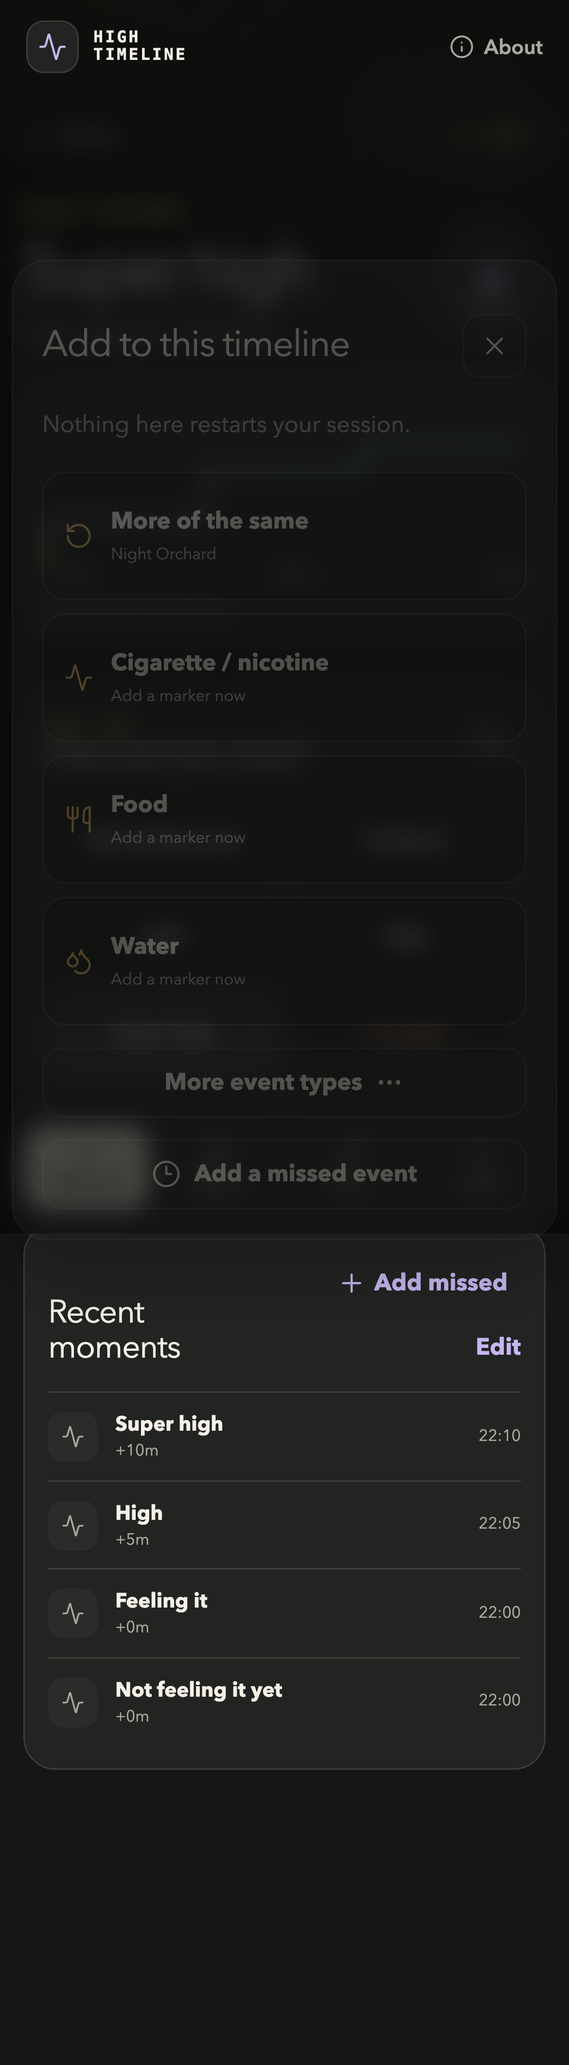
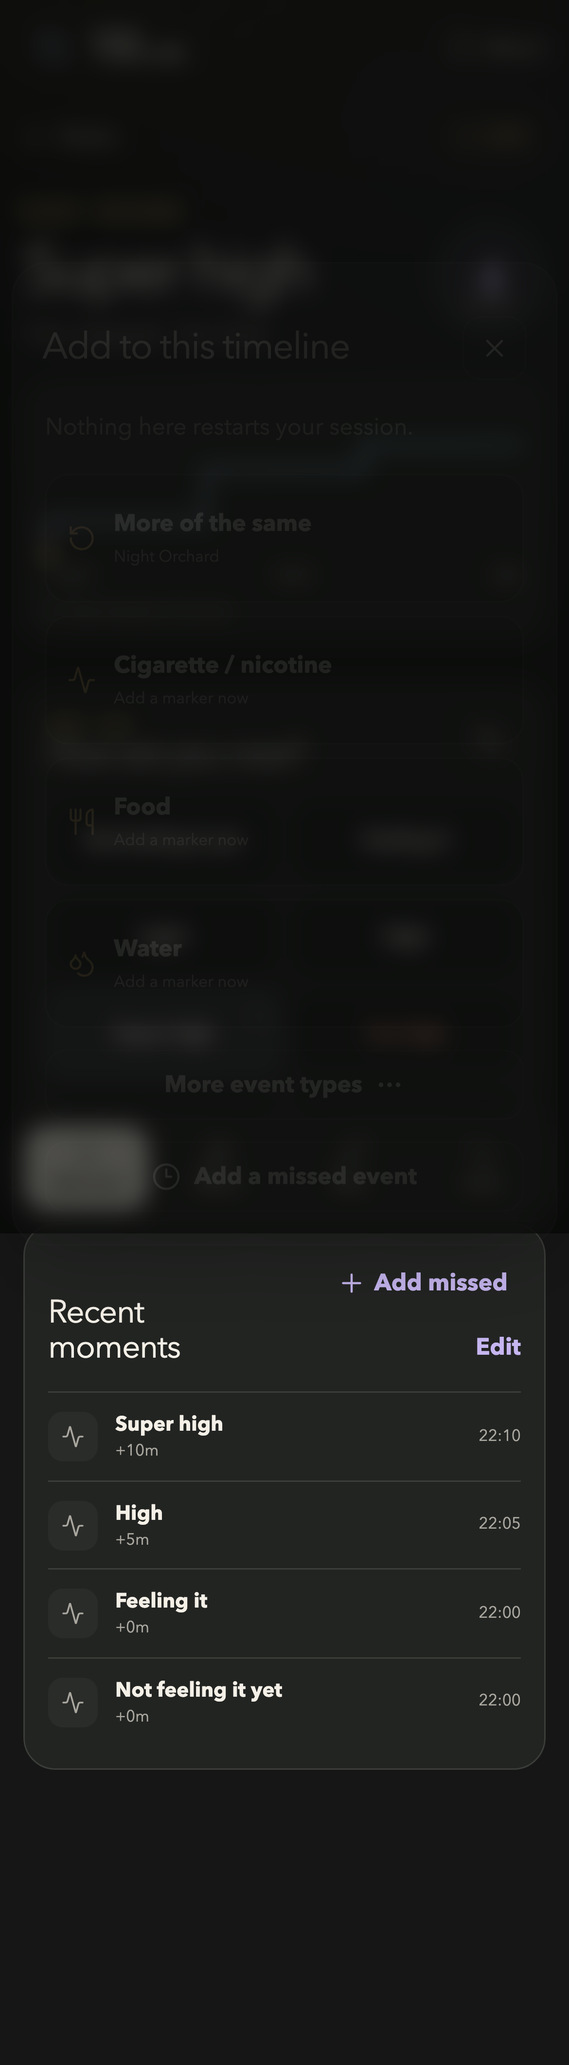
fix: keep missed-event save action tappable

diff --git a/src/index.css b/src/index.css
@@ -6,6 +6,6 @@
 .home-hero{min-height:430px;padding:60px 0 50px;display:flex;flex-direction:column;align-items:flex-start;justify-content:center}.home-hero h1 em{font-family:Georgia,serif;font-weight:400;color:var(--lavender)}.home-hero>p:not(.eyebrow){color:var(--muted);font-size:18px;line-height:1.5;max-width:460px;margin-bottom:28px}.resume-card{display:grid;grid-template-columns:auto 1fr auto;align-items:center;gap:16px;padding:22px;border:1px solid rgba(232,180,106,.35);background:linear-gradient(115deg,rgba(232,180,106,.1),var(--surface));border-radius:var(--radius);box-shadow:var(--shadow);margin-bottom:50px}.resume-card div{display:flex;flex-direction:column;gap:3px}.resume-card small{font:700 10px monospace;color:var(--amber);letter-spacing:.12em}.resume-card strong{font-size:20px}.resume-card span{color:var(--muted);font-size:14px}.live-dot{width:12px;height:12px;border-radius:50%;background:var(--amber);box-shadow:0 0 0 6px rgba(232,180,106,.12)}.section-block{margin:26px 0 50px}.section-head{display:flex;align-items:flex-end;justify-content:space-between;gap:18px;margin-bottom:18px}.section-head h2,.section-head p{margin-bottom:0}.section-head>a,.section-head button:not(.icon-button),.inline-actions>a,.inline-actions>button{color:var(--lavender);font-weight:700;display:flex;align-items:center;gap:6px}.section-head a svg{width:16px}.inline-actions{display:flex;align-items:center;justify-content:flex-end;gap:8px;flex-wrap:wrap}.session-stack{display:flex;flex-direction:column;gap:10px}.session-row{display:flex;align-items:center;gap:16px;padding:17px 18px;border:1px solid var(--line);background:var(--surface);border-radius:18px;transition:border-color .15s,transform .15s}.session-row:hover{border-color:var(--lavender);transform:translateY(-1px)}.date-tile{width:50px;height:54px;border-radius:13px;background:var(--surface-2);display:flex;flex-direction:column;align-items:center;justify-content:center}.date-tile strong{font-size:20px;line-height:1}.date-tile span{font:700 10px monospace;color:var(--muted);text-transform:uppercase}.session-row-main{flex:1;min-width:0;display:flex;flex-direction:column;gap:3px}.session-row-main>strong{font-size:17px}.session-row-main>span{color:var(--muted);font-size:13px}.chips{display:flex;gap:5px;overflow:hidden;margin-top:3px}.chips i{font-style:normal;font-size:10px;padding:3px 7px;border-radius:999px;background:rgba(198,182,240,.1);color:var(--lavender);white-space:nowrap}.rating{font-size:20px;font-weight:700;color:var(--amber)}.rating small{font-size:10px}.privacy-strip{display:flex;align-items:center;gap:15px;border-top:1px solid var(--line);padding:28px 0;color:var(--muted)}.privacy-strip div{display:flex;flex-direction:column}.privacy-strip strong{color:var(--text)}.empty{min-height:240px;border:1px dashed var(--line);border-radius:var(--radius);display:flex;flex-direction:column;align-items:center;justify-content:center;text-align:center;padding:35px;color:var(--muted)}.empty>svg{width:38px;height:38px;color:var(--lavender);margin-bottom:16px}.empty h3{color:var(--text);margin-bottom:8px}.empty .primary{margin-top:15px}
 .form-card{background:var(--surface);border:1px solid var(--line);border-radius:var(--radius);padding:28px;display:flex;flex-direction:column;gap:24px;margin-top:32px}fieldset{border:0;padding:0;margin:0}legend,label{font-weight:700;font-size:14px;display:flex;flex-direction:column;gap:8px;width:100%}legend{margin-bottom:11px}label span,legend span{font-weight:500;color:var(--muted);font-size:12px;margin-left:5px}input,textarea,select{width:100%;border:1px solid var(--line);background:var(--bg-soft);color:var(--text);border-radius:13px;padding:13px 14px;min-height:48px}textarea{resize:vertical;line-height:1.5}.method-grid{display:grid;grid-template-columns:repeat(3,1fr);gap:8px}.method-grid button,.state-grid button,.effect-grid button,.rating-grid button,.segmented button,.view-toggle button{border:1px solid var(--line);background:var(--bg-soft);border-radius:13px;min-height:50px;padding:10px;color:var(--muted);cursor:pointer;font-weight:700}.method-grid button.selected,.method-grid button[aria-pressed="true"],.segmented button.selected,.rating-grid button.selected,.view-toggle button[aria-pressed="true"]{background:rgba(198,182,240,.15);border-color:var(--lavender);color:var(--text)}
 .live-page{max-width:840px;margin:auto;padding-bottom:90px}.live-top{display:flex;justify-content:space-between;align-items:center}.live-pill{font:700 11px monospace;text-transform:uppercase;letter-spacing:.12em;border:1px solid rgba(232,180,106,.35);border-radius:999px;padding:8px 12px;color:var(--amber);display:flex;align-items:center;gap:7px}.live-pill i{width:7px;height:7px;border-radius:50%;background:var(--amber);animation:pulse 2s infinite}.live-status{display:flex;align-items:center;justify-content:space-between;padding:38px 0 18px}.live-status h1{font-size:clamp(42px,8vw,70px);margin-bottom:10px}.live-status>div>p:last-child{color:var(--muted)}.state-orb{width:94px;height:94px;border-radius:50%;display:flex;flex-direction:column;align-items:center;justify-content:center;border:1px solid var(--line);box-shadow:inset 0 0 35px rgba(255,255,255,.04)}.state-orb span{font:700 32px Georgia,serif}.state-orb small{font:700 9px monospace;text-transform:uppercase;letter-spacing:.15em}.tone-lavender{color:var(--lavender);background:rgba(198,182,240,.08)}.tone-cyan{color:var(--cyan);background:rgba(128,209,223,.08)}.tone-coral{color:var(--coral);background:rgba(239,137,123,.08)}.timeline-chart{margin:0 0 28px;background:var(--surface);border:1px solid var(--line);border-radius:var(--radius);padding:14px 16px 11px}.timeline-chart svg{width:100%;height:170px;overflow:visible}.timeline-chart .gridline{stroke:var(--line);stroke-width:.3;stroke-dasharray:2 3}.consume-marker{fill:var(--amber)}.context-marker{fill:var(--cyan)}.timeline-chart figcaption{display:flex;justify-content:space-between;font:700 9px monospace;color:var(--muted);letter-spacing:.1em;text-transform:uppercase}.timeline-chart details{margin-top:10px;color:var(--muted);font-size:12px}.timeline-chart details ol{padding-left:20px}.timeline-chart.compact svg{height:90px}.quick-state{padding:24px;background:var(--surface);border:1px solid var(--line);border-radius:var(--radius)}.state-grid{display:grid;grid-template-columns:repeat(4,1fr);gap:8px}.state-grid button{min-height:66px;position:relative;font-size:13px;color:var(--text)}.state-grid button[aria-pressed="true"]{border-color:var(--cyan);background:rgba(128,209,223,.1)}.state-grid button.super-high{border-color:rgba(198,182,240,.5);background:rgba(198,182,240,.08)}.state-grid button.too-high{color:var(--coral)}.state-grid button svg{position:absolute;right:7px;top:7px;width:14px}.recent-card{margin-top:18px;padding:22px;background:var(--surface);border:1px solid var(--line);border-radius:var(--radius)}.event-line{display:flex;align-items:center;gap:12px;padding:11px 0;border-top:1px solid var(--line)}.event-line:first-child{border-top:0}.event-icon{width:34px;height:34px;display:grid;place-items:center;border-radius:10px;background:var(--surface-2);color:var(--muted);flex:0 0 auto}.event-icon svg{width:16px}.kind-consume{color:var(--amber)}.kind-state_change,.kind-effects_update{color:var(--lavender)}.event-line>div:not(.event-icon){display:flex;flex-direction:column;min-width:0;flex:1}.event-line strong{font-size:14px;white-space:nowrap;overflow:hidden;text-overflow:ellipsis}.event-line span,.event-line time{font-size:11px;color:var(--muted)}.live-dock{position:fixed;z-index:22;bottom:14px;left:50%;transform:translateX(-50%);display:flex;gap:5px;padding:7px;background:color-mix(in srgb,var(--surface) 92%,transparent);border:1px solid var(--line);border-radius:22px;box-shadow:var(--shadow);backdrop-filter:blur(18px)}.live-dock button{border:0;background:transparent;border-radius:15px;min-width:82px;height:58px;display:flex;flex-direction:column;align-items:center;justify-content:center;gap:3px;color:var(--muted);cursor:pointer}.live-dock button:first-child{background:var(--text);color:var(--bg)}.live-dock button svg{width:19px}.live-dock button span{font-size:10px;font-weight:700}
-.modal-backdrop{position:fixed;z-index:50;inset:0;background:rgba(5,6,5,.68);display:flex;align-items:flex-end;justify-content:center;padding:20px;backdrop-filter:blur(8px)}.modal{width:min(560px,100%);max-height:min(760px,calc(100vh - 32px));overflow:auto;background:var(--surface);border:1px solid var(--line);border-radius:28px;padding:24px;box-shadow:var(--shadow);animation:slideUp .2s ease}.modal-wide{width:min(720px,100%)}.modal-head{display:flex;justify-content:space-between;align-items:center;margin-bottom:8px;position:sticky;top:-24px;padding:16px 0 12px;background:var(--surface);z-index:2}.modal-head h2{margin:0}.modal-intro{color:var(--muted);margin-bottom:20px}.quick-events{display:grid;grid-template-columns:1fr 1fr;gap:9px;margin:15px 0}.quick-events button{min-height:88px;border:1px solid var(--line);background:var(--bg-soft);border-radius:16px;padding:14px;display:flex;align-items:center;gap:12px;text-align:left;cursor:pointer}.quick-events button>svg{color:var(--amber)}.quick-events button span{display:flex;flex-direction:column;gap:3px}.quick-events small{font-size:11px}.sheet-form,.button-stack{display:flex;flex-direction:column;gap:15px}.search-field{height:48px;border:1px solid var(--line);border-radius:13px;background:var(--bg-soft);display:flex;align-items:center;padding:0 13px;gap:9px}.search-field svg{color:var(--muted)}.search-field input{border:0;background:transparent;padding:0;min-height:auto}.search-field input:focus{outline:0}.effect-grid{display:grid;grid-template-columns:repeat(3,1fr);gap:7px;margin:14px 0;max-height:360px;overflow:auto}.effect-grid button{min-height:64px;position:relative;display:flex;flex-direction:column;text-align:left;align-items:flex-start;color:var(--text)}.effect-grid button small{font-size:9px;text-transform:capitalize}.effect-grid button[aria-pressed="true"]{border-color:var(--lavender);background:rgba(198,182,240,.12)}.effect-grid button svg{position:absolute;right:8px;top:8px;width:14px}.custom-effect{display:grid;grid-template-columns:1fr 140px auto;gap:8px;margin:16px 0}.safety-note{display:flex;align-items:flex-start;gap:12px;padding:16px;border-radius:15px;background:rgba(128,209,223,.08);border:1px solid rgba(128,209,223,.2);color:var(--muted);margin:18px 0}.safety-note svg{color:var(--cyan);flex:0 0 auto}.safety-note p{margin:0;font-size:13px;line-height:1.5}.rating-grid{display:grid;grid-template-columns:repeat(10,1fr);gap:5px}.rating-grid button{padding:0;min-height:43px}.segmented{display:flex;gap:7px}.segmented button{flex:1}.toggle-row{margin:16px 0!important}.toast{position:fixed;z-index:70;left:50%;bottom:95px;transform:translateX(-50%);padding:13px 16px;border:1px solid var(--line);background:var(--text);color:var(--bg);border-radius:13px;box-shadow:var(--shadow);font-size:13px;font-weight:700;display:flex;gap:14px;align-items:center}.toast button{border:0;background:transparent;color:inherit;text-decoration:underline;font-weight:800}.sr-only{position:absolute;width:1px;height:1px;padding:0;margin:-1px;overflow:hidden;clip:rect(0,0,0,0);white-space:nowrap;border:0}
+.modal-backdrop{position:fixed;z-index:50;inset:0;background:rgba(5,6,5,.68);display:flex;align-items:flex-end;justify-content:center;padding:20px max(20px,env(safe-area-inset-right)) max(20px,env(safe-area-inset-bottom)) max(20px,env(safe-area-inset-left));backdrop-filter:blur(8px)}.modal{width:min(560px,100%);max-height:min(760px,calc(100vh - 32px));max-height:min(760px,calc(100dvh - 32px));overflow:hidden;display:flex;flex-direction:column;background:var(--surface);border:1px solid var(--line);border-radius:28px;padding:24px;box-shadow:var(--shadow);animation:slideUp .2s ease}.modal-wide{width:min(720px,100%)}.modal-head{display:flex;justify-content:space-between;align-items:center;flex:0 0 auto;margin-bottom:8px;padding:16px 0 12px;background:var(--surface);z-index:2}.modal-head h2{margin:0}.modal-body{min-height:0;overflow-y:auto;overscroll-behavior:contain;padding:0 2px 2px;scrollbar-gutter:stable}.modal-footer{flex:0 0 auto;margin-top:14px;padding:14px 0 max(2px,env(safe-area-inset-bottom));border-top:1px solid var(--line);background:var(--surface);z-index:3}.modal-intro{color:var(--muted);margin-bottom:20px}.quick-events{display:grid;grid-template-columns:1fr 1fr;gap:9px;margin:15px 0}.quick-events button{min-height:88px;border:1px solid var(--line);background:var(--bg-soft);border-radius:16px;padding:14px;display:flex;align-items:center;gap:12px;text-align:left;cursor:pointer}.quick-events button>svg{color:var(--amber)}.quick-events button span{display:flex;flex-direction:column;gap:3px}.quick-events small{font-size:11px}.sheet-form,.button-stack{display:flex;flex-direction:column;gap:15px}.search-field{height:48px;border:1px solid var(--line);border-radius:13px;background:var(--bg-soft);display:flex;align-items:center;padding:0 13px;gap:9px}.search-field svg{color:var(--muted)}.search-field input{border:0;background:transparent;padding:0;min-height:auto}.search-field input:focus{outline:0}.effect-grid{display:grid;grid-template-columns:repeat(3,1fr);gap:7px;margin:14px 0;max-height:360px;overflow:auto}.effect-grid button{min-height:64px;position:relative;display:flex;flex-direction:column;text-align:left;align-items:flex-start;color:var(--text)}.effect-grid button small{font-size:9px;text-transform:capitalize}.effect-grid button[aria-pressed="true"]{border-color:var(--lavender);background:rgba(198,182,240,.12)}.effect-grid button svg{position:absolute;right:8px;top:8px;width:14px}.custom-effect{display:grid;grid-template-columns:1fr 140px auto;gap:8px;margin:16px 0}.safety-note{display:flex;align-items:flex-start;gap:12px;padding:16px;border-radius:15px;background:rgba(128,209,223,.08);border:1px solid rgba(128,209,223,.2);color:var(--muted);margin:18px 0}.safety-note svg{color:var(--cyan);flex:0 0 auto}.safety-note p{margin:0;font-size:13px;line-height:1.5}.rating-grid{display:grid;grid-template-columns:repeat(10,1fr);gap:5px}.rating-grid button{padding:0;min-height:43px}.segmented{display:flex;gap:7px}.segmented button{flex:1}.toggle-row{margin:16px 0!important}.toast{position:fixed;z-index:70;left:50%;bottom:95px;transform:translateX(-50%);padding:13px 16px;border:1px solid var(--line);background:var(--text);color:var(--bg);border-radius:13px;box-shadow:var(--shadow);font-size:13px;font-weight:700;display:flex;gap:14px;align-items:center}.toast button{border:0;background:transparent;color:inherit;text-decoration:underline;font-weight:800}.sr-only{position:absolute;width:1px;height:1px;padding:0;margin:-1px;overflow:hidden;clip:rect(0,0,0,0);white-space:nowrap;border:0}
 .summary-page{max-width:900px;margin:auto}.summary-hero{display:flex;justify-content:space-between;align-items:flex-end;padding:40px 0 20px}.summary-hero h1{font-size:clamp(46px,8vw,76px);margin-bottom:8px}.summary-hero p{color:var(--muted)}.rating-large{display:flex;align-items:baseline;color:var(--amber)}.rating-large strong{font:700 70px/1 Georgia,serif}.rating-large span{font-weight:700}.metrics-grid{display:grid;grid-template-columns:repeat(4,1fr);gap:9px}.metrics-grid article{min-height:110px;border:1px solid var(--line);border-radius:17px;background:var(--surface);padding:16px;display:flex;flex-direction:column;justify-content:space-between}.metrics-grid span{font-size:11px;color:var(--muted)}.metrics-grid strong{font-size:18px}.summary-section{margin:42px 0}.effect-summary{display:flex;flex-wrap:wrap;gap:8px}.effect-summary>span{padding:10px 13px;border:1px solid var(--line);background:var(--surface);border-radius:999px;font-weight:700;font-size:13px;display:flex;gap:7px}.effect-summary small{text-transform:capitalize}.sentiment-desired{border-color:rgba(198,182,240,.35)!important}.sentiment-unwanted{border-color:rgba(239,137,123,.45)!important}.event-list{border:1px solid var(--line);background:var(--surface);border-radius:var(--radius);padding:10px 18px}.summary-actions{display:flex;gap:9px}.share-canvas{width:100%;height:auto;max-height:430px;object-fit:contain;border-radius:18px;margin:15px 0;background:#171817}.boundary-grid{display:grid;grid-template-columns:1fr 1fr;gap:12px;margin:25px 0}.edit-list{display:flex;flex-direction:column;gap:10px;margin-top:22px}.edit-event{border:1px solid var(--line);background:var(--surface);border-radius:17px;padding:8px 14px}.edit-event-head{display:flex;align-items:center}.edit-event-head>.event-line{flex:1}.edit-panel{border-top:1px solid var(--line);padding:16px 0 7px;display:grid;gap:13px}.row-actions{display:flex;align-items:center;gap:9px;flex-wrap:wrap}.row-actions>span{color:var(--coral);font-size:12px}.page-heading{padding:45px 0 35px}.page-heading h1{margin-bottom:10px}.page-heading>p:last-child{color:var(--muted);font-size:17px;max-width:630px;line-height:1.5}.toolbar{display:grid;grid-template-columns:1fr 170px 150px auto;gap:8px;margin-bottom:22px}.toolbar select{min-width:0}.view-toggle{display:flex;border:1px solid var(--line);border-radius:13px;padding:3px}.view-toggle button{border:0;min-height:40px;padding:0 12px}.history-stack{gap:12px}.calendar-list{display:grid;grid-template-columns:repeat(2,1fr);gap:12px}.insight-strip{display:grid;grid-template-columns:repeat(4,1fr);gap:9px}.insight-strip article{background:var(--surface);border:1px solid var(--line);border-radius:18px;padding:18px;min-height:130px;display:flex;flex-direction:column}.insight-strip span{font-size:11px;color:var(--muted)}.insight-strip strong{font:700 30px/1.2 Georgia,serif;margin-top:auto}.insight-strip small{margin-top:4px}.product-grid{display:grid;grid-template-columns:repeat(2,1fr);gap:12px}.product-card{background:var(--surface);border:1px solid var(--line);border-radius:var(--radius);padding:22px}.product-card h3{font-size:25px;margin-bottom:4px}.product-card>div>span{color:var(--muted);font-size:13px}.product-card dl{display:grid;grid-template-columns:1fr 1fr;gap:0;margin:20px 0 0}.product-card dl div{border-top:1px solid var(--line);padding:12px 0}.product-card dt{font-size:10px;color:var(--muted)}.product-card dd{margin:3px 0 0;font-weight:700}.confidence-note{font-size:12px;color:var(--amber);line-height:1.4;margin:10px 0 0}.settings-grid{display:grid;grid-template-columns:1fr 1fr;gap:12px}.settings-card{background:var(--surface);border:1px solid var(--line);border-radius:var(--radius);padding:22px;display:flex;flex-direction:column;gap:11px}.settings-title{display:flex;gap:13px;align-items:flex-start;margin-bottom:9px}.settings-title>svg{color:var(--lavender)}.settings-title h2{font-size:19px;margin:0 0 3px}.settings-title p{font-size:12px;color:var(--muted);margin:0}.file-picker{border:1px dashed var(--line);border-radius:14px;min-height:60px;display:flex;flex-direction:row;align-items:center;justify-content:center;gap:9px;cursor:pointer}.file-picker input{position:absolute;opacity:0;pointer-events:none}.error-text{color:var(--coral);font-size:13px}.import-preview{padding:13px;background:var(--bg-soft);border-radius:13px;display:flex;flex-direction:column;gap:8px}.import-preview span{font-size:12px;color:var(--muted)}.danger-zone{border-color:rgba(239,137,123,.35)}.prose-page{padding-top:60px}.prose-page section{border-top:1px solid var(--line);padding:28px 0}.prose-page section h2{font-size:22px}.prose-page section p{color:var(--muted);line-height:1.7}.loading{min-height:60vh;display:grid;place-items:center;color:var(--muted)}
-@keyframes pulse{50%{opacity:.35}}@keyframes slideUp{from{transform:translateY(18px);opacity:0}}@media(prefers-reduced-motion:reduce){*,*:before,*:after{scroll-behavior:auto!important;animation-duration:.01ms!important;animation-iteration-count:1!important;transition-duration:.01ms!important}}@media(max-width:720px){.topbar{height:64px;padding:0 18px}.quiet-link span{display:none}.page-wrap{padding:14px 16px 112px}.onboarding-shell{grid-template-columns:1fr;grid-template-rows:32vh 1fr}.onboarding-art{padding:25px}.onboarding-art:before{width:260px;height:260px}.onboarding-card{padding:28px 22px;justify-content:flex-start}.onboarding-card h1{font-size:42px}.onboarding-card .lede{font-size:16px}.onboarding-actions{margin-top:auto;padding-top:20px}.bottom-nav{bottom:10px;width:calc(100% - 24px);justify-content:space-around}.bottom-nav a{min-width:0;flex:1}.home-hero{min-height:390px;padding:35px 2px}.home-hero h1{font-size:52px}.section-head h2{font-size:22px}.session-row{padding:14px 12px;gap:10px}.session-row>svg{width:16px}.rating{display:none}.form-card{padding:18px}.method-grid{grid-template-columns:1fr 1fr}.live-status{padding-top:30px}.live-status h1{font-size:44px}.state-orb{width:76px;height:76px}.timeline-chart svg{height:115px}.quick-state{padding:16px}.state-grid{grid-template-columns:1fr 1fr}.state-grid button{min-height:58px}.live-dock{bottom:8px;width:calc(100% - 18px);justify-content:space-around}.live-dock button{min-width:0;flex:1}.modal-backdrop{padding:8px}.modal{border-radius:24px;padding:20px;max-height:calc(100vh - 16px)}.effect-grid{grid-template-columns:1fr 1fr}.custom-effect{grid-template-columns:1fr 110px}.custom-effect .secondary{grid-column:1/-1}.rating-grid{grid-template-columns:repeat(5,1fr)}.summary-hero{padding-top:30px}.summary-hero h1{font-size:46px}.rating-large strong{font-size:52px}.metrics-grid{grid-template-columns:1fr 1fr}.metrics-grid article{min-height:96px}.boundary-grid{grid-template-columns:1fr}.toolbar{grid-template-columns:1fr 1fr}.toolbar .search-field{grid-column:1/-1}.view-toggle{grid-column:1/-1}.calendar-list{grid-template-columns:1fr}.insight-strip{grid-template-columns:1fr 1fr}.insight-strip article{min-height:110px}.product-grid,.settings-grid{grid-template-columns:1fr}.summary-actions{flex-direction:column}.quick-events{grid-template-columns:1fr}.recent-card{padding:16px}}
+@keyframes pulse{50%{opacity:.35}}@keyframes slideUp{from{transform:translateY(18px);opacity:0}}@media(prefers-reduced-motion:reduce){*,*:before,*:after{scroll-behavior:auto!important;animation-duration:.01ms!important;animation-iteration-count:1!important;transition-duration:.01ms!important}}@media(max-width:720px){.topbar{height:64px;padding:0 18px}.quiet-link span{display:none}.page-wrap{padding:14px 16px 112px}.onboarding-shell{grid-template-columns:1fr;grid-template-rows:32vh 1fr}.onboarding-art{padding:25px}.onboarding-art:before{width:260px;height:260px}.onboarding-card{padding:28px 22px;justify-content:flex-start}.onboarding-card h1{font-size:42px}.onboarding-card .lede{font-size:16px}.onboarding-actions{margin-top:auto;padding-top:20px}.bottom-nav{bottom:10px;width:calc(100% - 24px);justify-content:space-around}.bottom-nav a{min-width:0;flex:1}.home-hero{min-height:390px;padding:35px 2px}.home-hero h1{font-size:52px}.section-head h2{font-size:22px}.session-row{padding:14px 12px;gap:10px}.session-row>svg{width:16px}.rating{display:none}.form-card{padding:18px}.method-grid{grid-template-columns:1fr 1fr}.live-status{padding-top:30px}.live-status h1{font-size:44px}.state-orb{width:76px;height:76px}.timeline-chart svg{height:115px}.quick-state{padding:16px}.state-grid{grid-template-columns:1fr 1fr}.state-grid button{min-height:58px}.live-dock{bottom:8px;width:calc(100% - 18px);justify-content:space-around}.live-dock button{min-width:0;flex:1}.modal-backdrop{padding:8px max(8px,env(safe-area-inset-right)) max(8px,env(safe-area-inset-bottom)) max(8px,env(safe-area-inset-left))}.modal{border-radius:24px;padding:20px;max-height:calc(100vh - 16px);max-height:calc(100dvh - 16px)}.effect-grid{grid-template-columns:1fr 1fr}.custom-effect{grid-template-columns:1fr 110px}.custom-effect .secondary{grid-column:1/-1}.rating-grid{grid-template-columns:repeat(5,1fr)}.summary-hero{padding-top:30px}.summary-hero h1{font-size:46px}.rating-large strong{font-size:52px}.metrics-grid{grid-template-columns:1fr 1fr}.metrics-grid article{min-height:96px}.boundary-grid{grid-template-columns:1fr}.toolbar{grid-template-columns:1fr 1fr}.toolbar .search-field{grid-column:1/-1}.view-toggle{grid-column:1/-1}.calendar-list{grid-template-columns:1fr}.insight-strip{grid-template-columns:1fr 1fr}.insight-strip article{min-height:110px}.product-grid,.settings-grid{grid-template-columns:1fr}.summary-actions{flex-direction:column}.quick-events{grid-template-columns:1fr}.recent-card{padding:16px}}

diff --git a/src/App.tsx b/src/App.tsx
@@ -1,4 +1,5 @@
 import { useEffect, useRef, useState, type FormEvent, type ReactNode } from 'react'
+import { createPortal } from 'react-dom'
 import { BrowserRouter, Link, NavLink, Navigate, Route, Routes, useNavigate, useParams } from 'react-router-dom'
 import { useLiveQuery } from 'dexie-react-hooks'
 import { format, parseISO } from 'date-fns'
@@ -25,7 +26,7 @@ function useTick(rate = 10_000) {
   return now
 }
 
-function Modal({ title, children, onClose, wide = false }: { title: string; children: ReactNode; onClose: () => void; wide?: boolean }) {
+function Modal({ title, children, footer, onClose, wide = false }: { title: string; children: ReactNode; footer?: ReactNode; onClose: () => void; wide?: boolean }) {
   const ref = useRef<HTMLDivElement>(null)
   useEffect(() => { ref.current?.querySelector<HTMLElement>('button, input, select, textarea')?.focus() }, [])
   const trap = (event: React.KeyboardEvent) => {
@@ -36,12 +37,13 @@ function Modal({ title, children, onClose, wide = false }: { title: string; chil
     if (event.shiftKey && document.activeElement === first) { event.preventDefault(); last?.focus() }
     if (!event.shiftKey && document.activeElement === last) { event.preventDefault(); first?.focus() }
   }
-  return <div className="modal-backdrop" onMouseDown={(e) => e.target === e.currentTarget && onClose()}>
+  return createPortal(<div className="modal-backdrop" onMouseDown={(e) => e.target === e.currentTarget && onClose()}>
     <div ref={ref} role="dialog" aria-modal="true" aria-labelledby="modal-title" onKeyDown={trap} className={`modal ${wide ? 'modal-wide' : ''}`}>
       <header className="modal-head"><h2 id="modal-title">{title}</h2><button className="icon-button" aria-label="Close" onClick={onClose}><X /></button></header>
-      {children}
+      <div className="modal-body">{children}</div>
+      {footer && <footer className="modal-footer">{footer}</footer>}
     </div>
-  </div>
+  </div>, document.body)
 }
 
 function Onboarding() {
@@ -258,7 +260,7 @@ function AddMissed({session,events,effects,onClose}:{session:Session;events:Time
     await addEvent(session.id,{kind,state:kind==='STATE_CHANGE'?state:undefined,category:kind==='CONTEXT'||kind==='CONSUME'?value.trim():undefined,note:kind==='NOTE'?value.trim():undefined,activeEffectIds:kind==='EFFECTS_UPDATE'?activeEffects:undefined,occurredAt})
     onClose()
   }
-  return <Modal title="Add missed event" onClose={onClose}><p className="modal-intro">Choose what happened and set its earlier time. The whole timeline recalculates after saving.</p><div className="sheet-form"><label>Type<select value={kind} onChange={e=>{setKind(e.target.value as EventKind);setError('')}}><option value="STATE_CHANGE">State change</option><option value="CONSUME">Consumption</option><option value="CONTEXT">Context</option><option value="EFFECTS_UPDATE">Effects update</option><option value="NOTE">Note</option></select></label>{kind==='STATE_CHANGE'?<label>State<select value={state} onChange={e=>setState(e.target.value as SessionState)}>{STATE_ORDER.map(item=><option value={item} key={item}>{STATE_META[item].label}</option>)}</select></label>:kind==='EFFECTS_UPDATE'?<fieldset><legend>Active effects</legend><div className="effect-grid">{effects.map(effect=><button type="button" aria-pressed={activeEffects.includes(effect.id)} key={effect.id} onClick={()=>setActiveEffects(items=>items.includes(effect.id)?items.filter(id=>id!==effect.id):[...items,effect.id])}>{effect.label}{activeEffects.includes(effect.id)&&<Check/>}</button>)}</div></fieldset>:<label>{kind==='NOTE'?'Note':'Name or category'}{kind==='NOTE'?<textarea value={value} onChange={e=>setValue(e.target.value)}/>:<input value={value} onChange={e=>setValue(e.target.value)} placeholder={kind==='CONSUME'?'e.g. More of the same':'e.g. Food'}/>}</label>}<label>Time<input aria-label="Missed event time" type="datetime-local" min={toLocalInput(session.startedAt)} max={toLocalInput(latestAllowed)} value={time} onChange={e=>{setTime(e.target.value);setError('')}}/></label>{error&&<p className="error-text" role="alert">{error}</p>}<button className="primary full" onClick={save}>Add event</button></div></Modal>
+  return <Modal title="Add missed event" onClose={onClose} footer={<button className="primary full" onClick={save}>Add event</button>}><p className="modal-intro">Choose what happened and set its earlier time. The whole timeline recalculates after saving.</p><div className="sheet-form"><label>Type<select value={kind} onChange={e=>{setKind(e.target.value as EventKind);setError('')}}><option value="STATE_CHANGE">State change</option><option value="CONSUME">Consumption</option><option value="CONTEXT">Context</option><option value="EFFECTS_UPDATE">Effects update</option><option value="NOTE">Note</option></select></label>{kind==='STATE_CHANGE'?<label>State<select value={state} onChange={e=>setState(e.target.value as SessionState)}>{STATE_ORDER.map(item=><option value={item} key={item}>{STATE_META[item].label}</option>)}</select></label>:kind==='EFFECTS_UPDATE'?<fieldset><legend>Active effects</legend><div className="effect-grid">{effects.map(effect=><button type="button" aria-pressed={activeEffects.includes(effect.id)} key={effect.id} onClick={()=>setActiveEffects(items=>items.includes(effect.id)?items.filter(id=>id!==effect.id):[...items,effect.id])}>{effect.label}{activeEffects.includes(effect.id)&&<Check/>}</button>)}</div></fieldset>:<label>{kind==='NOTE'?'Note':'Name or category'}{kind==='NOTE'?<textarea value={value} onChange={e=>setValue(e.target.value)}/>:<input value={value} onChange={e=>setValue(e.target.value)} placeholder={kind==='CONSUME'?'e.g. More of the same':'e.g. Food'}/>}</label>}<label>Time<input aria-label="Missed event time" type="datetime-local" min={toLocalInput(session.startedAt)} max={toLocalInput(latestAllowed)} value={time} onChange={e=>{setTime(e.target.value);setError('')}}/></label>{error&&<p className="error-text" role="alert">{error}</p>}</div></Modal>
 }
 
 function HistoryPage() {

diff --git a/e2e/multi-peak.spec.ts b/e2e/multi-peak.spec.ts
@@ -52,6 +52,17 @@ test('records, persists, analyzes, and exports a complete multi-peak session', a
 
   await page.reload()
   await expect(page.getByRole('heading', { name: 'Night Orchard' })).toBeVisible()
+  await page.getByRole('link', { name: 'Edit timeline' }).click()
+  await page.getByRole('button', { name: 'Add missed event' }).click()
+  const missedDialog = page.getByRole('dialog', { name: 'Add missed event' })
+  await missedDialog.getByLabel('Type').selectOption('CONSUME')
+  await missedDialog.getByLabel('Name or category').fill('1 cig')
+  const addMissedButton = missedDialog.getByRole('button', { name: 'Add event' })
+  await expect(addMissedButton).toBeInViewport()
+  await addMissedButton.click()
+  await expect(missedDialog).toBeHidden()
+  await expect(page.getByText('1 cig')).toBeVisible()
+  await page.getByRole('button', { name: 'Back to recap' }).click()
   await page.getByRole('navigation', { name: 'Primary' }).getByRole('link', { name: 'History' }).click()
   await expect(page.getByText('Night Orchard').first()).toBeVisible()
   await page.screenshot({ path: 'artifacts/screenshots/history.png', fullPage: true })

diff --git a/src/App.test.tsx b/src/App.test.tsx
@@ -75,7 +75,9 @@ describe('important interface interactions', () => {
     await user.click(screen.getByRole('button', { name: /Add a missed event/ }))
     await user.selectOptions(screen.getByLabelText('Type'), 'CONTEXT')
     await user.type(screen.getByLabelText('Name or category'), 'Food')
-    await user.click(within(screen.getByRole('dialog')).getByRole('button', { name: 'Add event' }))
+    const saveButton = within(screen.getByRole('dialog')).getByRole('button', { name: 'Add event' })
+    expect(saveButton.parentElement).toHaveClass('modal-footer')
+    await user.click(saveButton)
 
     await waitFor(async () => expect((await db.events.where('sessionId').equals('session-test').toArray()).some((event) => event.category === 'Food')).toBe(true))
   })
